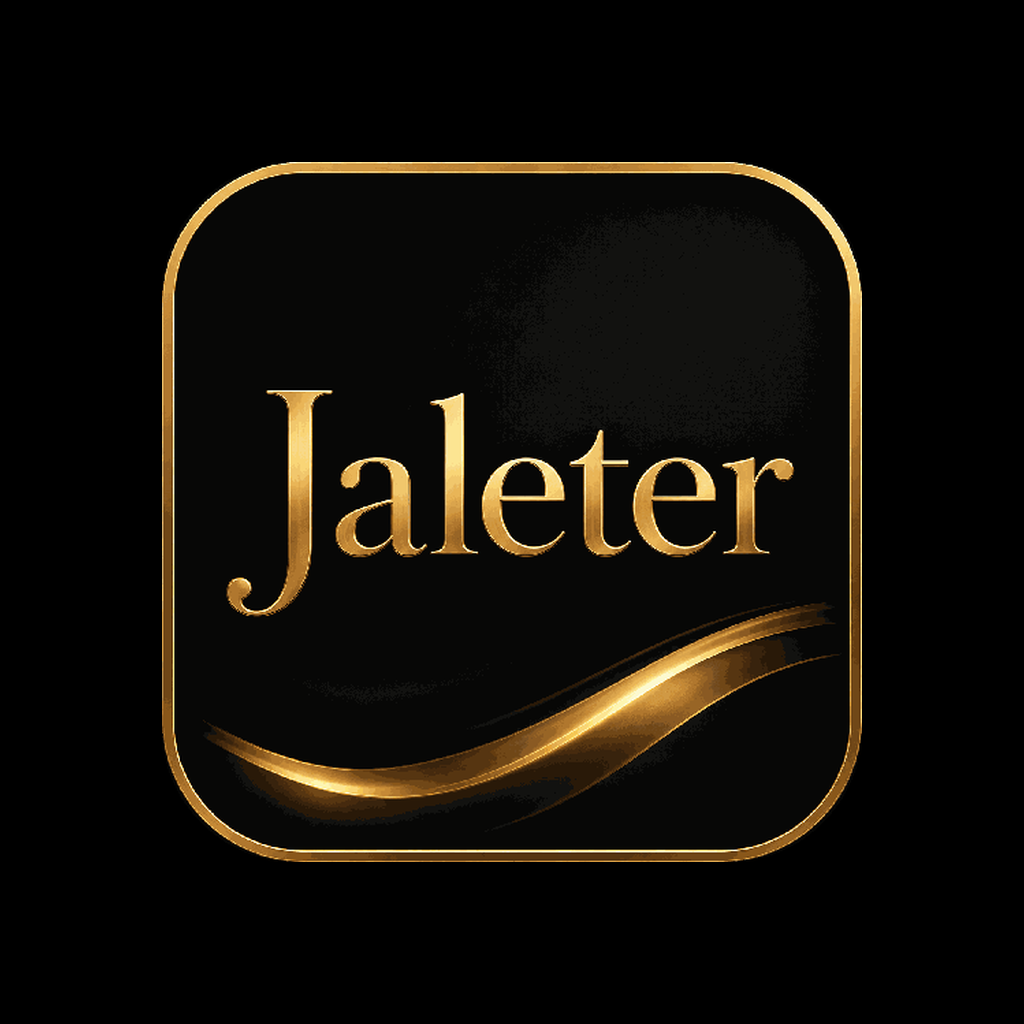
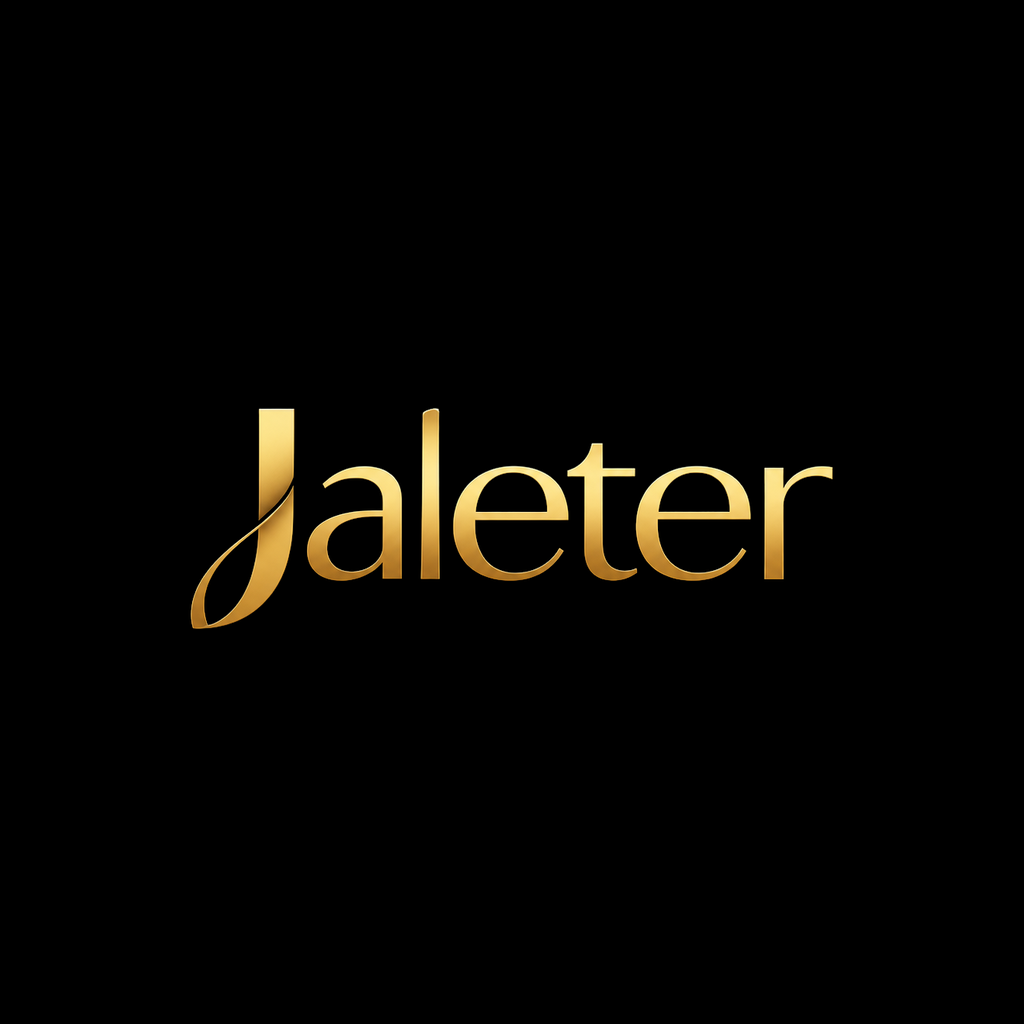
The official artwork is now integrated throughout the app, replacing the Emergent placeholders:
- **iOS app icon**: gold waves background with the gold **Jaleter** wordmark (without the tagline to ensure readability at icon size). Verified at home-screen scale for clarity.
- **Android adaptive icon**: wordmark on black within the safe zone.
- **Splash screen**: full premium artwork on black.
- **Web favicon**: same icon used.
- **In-app**: Paywall and jaleter.com `/membership` pages display the gold wordmark image instead of typed text.

Please note that since icons and splash screens are embedded in the native iOS build, they cannot be fully verified via web preview or Expo Go. When you are ready, we can proceed with Re-publishing and generating the iOS build. The TestFlight email will display the Jaleter icon, serving as confirmation. This build will also include the IAP identity fix (`PW-2026.10.02-e`) and updated branding, covering multiple items in one release.

Regarding the login issue, could you please specify which login method (Email / Apple / Google) you are using, along with the exact on-screen message? Both the review account and production backend appear correct, so the specific error message will help identify where the issue occurs.

I have addressed the initial updates based on the information available. Could you please test this setup and let me know if everything works as expected or if further investigation and comprehensive testing are needed?

Emergent-Commit-Key: 99ce15d4c94c490bd3e00032c6deaca198d9f3d5eb7dce7e60d4ff0393611862

diff --git a/frontend/app/membership.tsx b/frontend/app/membership.tsx
@@ -12,7 +12,7 @@
  * to the app root.
  */
 import React, { useCallback, useEffect, useState } from 'react';
-import { View, Text, Pressable, ScrollView, ActivityIndicator, Platform, StyleSheet } from 'react-native';
+import { View, Text, Pressable, ScrollView, ActivityIndicator, Platform, StyleSheet, Image } from 'react-native';
 import { Redirect } from 'expo-router';
 import Ionicons from '@react-native-vector-icons/ionicons';
 import { AuthProvider, useAuth, apiCall } from '@/src/AuthContext';
@@ -80,7 +80,7 @@ function MembershipFlow() {
   if (!member) {
     return (
       <ScrollView style={m.splash} contentContainerStyle={m.successWrap} testID="membership-subscribe-in-app">
-        <Text style={m.wordmark}>Jaleter</Text>
+        <Image source={require('../assets/images/wordmark.png')} style={{ width: 190, height: 68, alignSelf: 'center' }} resizeMode="contain" accessibilityLabel="Jaleter" />
         <Text style={m.h1}>Your account is ready</Text>
         <Text style={m.sub}>
           Signed in as <Text style={{ color: '#e5c37a', fontWeight: '700' }}>{auth.user.email}</Text>.
@@ -135,7 +135,7 @@ function MembershipFlow() {
   // ---- Active member: success + next steps ---------------------------------
   return (
     <ScrollView style={m.splash} contentContainerStyle={m.successWrap} testID="membership-success">
-      <Text style={m.wordmark}>Jaleter</Text>
+      <Image source={require('../assets/images/wordmark.png')} style={{ width: 190, height: 68, alignSelf: 'center' }} resizeMode="contain" accessibilityLabel="Jaleter" />
       <View style={m.checkCircle}><Ionicons name="checkmark" size={34} color="#171204" /></View>
       <Text style={m.h1}>You&apos;re all set</Text>
       <Text style={m.sub}>

diff --git a/frontend/src/screens/PaywallScreen.tsx b/frontend/src/screens/PaywallScreen.tsx
@@ -1,5 +1,5 @@
 import React, { useState, useEffect, useRef } from 'react';
-import { View, Text, Pressable, ScrollView, ActivityIndicator, AppState, Platform, StyleSheet } from 'react-native';
+import { View, Text, Pressable, ScrollView, ActivityIndicator, AppState, Platform, StyleSheet, Image } from 'react-native';
 import Ionicons from '@react-native-vector-icons/ionicons';
 import { openJaleter } from '@/src/jaleterLinks';
 import { openStoreListing, STORE_NAME } from '@/src/storeLinks';
@@ -245,7 +245,7 @@ export const Paywall = ({ email, checkMembership, onUnlocked, onSwitchAccount }:
       </Pressable>
 
       <View style={{ alignItems: 'center' }}>
-        <Text style={d.wordmark}>Jaleter</Text>
+        <Image source={require('../../assets/images/wordmark.png')} style={{ width: 190, height: 68 }} resizeMode="contain" accessibilityLabel="Jaleter" testID="paywall-wordmark" />
         <Text style={d.tagline}>SMART BUDGETING. WEALTHY LIVING.</Text>
       </View>
 

diff --git a/memory/PRD.md b/memory/PRD.md
@@ -242,4 +242,4 @@ Seeded sample rows (Cash, Investments, Real Estate, Vehicles) are now APPENDED w
 - Frontend: TransactionsScreen computes uncategorized linked rows → fetches suggestions; banner tx-suggest-banner + inline chips tx-suggest-chip-<ext>; src/components/SuggestionReviewSheet.tsx (checkbox bulk approve — high-confidence pre-checked, mixed-use unchecked; change picker; Always toggle; proposals with group pills + "Add & assign"). Approval writes the same overlay Tx a manual assignment does → Budget Actual/Left update automatically; then POST learn. New category via addSubcategory prop from index.tsx.
 - Readability: appShared subHeaderName/subHeaderCol 8→10 darker, subCol 11→13, bsSmall 8→10 lighter-on-dark, alertRow/alertPill spacing + text 9→11, cpSmall 8→10 darker, cpStrong 13→15; BudgetScreen taglines 9→10 darker, actual cell 11→13; SettingsScreen alert sub name 10→12; NetWorth AVAILABLE label lighter; Reports summaryLabel 8→10, legend 10→12 (two-line rows, pie 180→150), bar labels 10→12, axis 8→10. Verified at 390 and 360.
 - QA seed: backend/scripts/seed_categorization_demo.py (smartcat.qa@jaleter.example.com / Passw0rd!xyz; 10 Plaid-style rows).
-- Branding (Oct 2026): replaced ALL Emergent placeholder assets with the user's Jaleter black/gold logo (artifact Jaleter_1MB.png 512px): assets/images/icon.png (1024, inset on black for iOS mask), adaptive-icon.png (foreground 70% safe zone, bg #000000 in app.json), splash-image.png + app-image.png (logo on black, expo-splash-screen bg #000000, imageWidth 220), favicon.png (192). Requires redeploy + new native build to appear on devices.
+- Branding (Oct 2026): replaced ALL Emergent placeholder assets with the user's official premium artwork (artifact FEC3DCD3…png 1254px: gold 'Jaleter' wordmark + gold waves on black). icon.png = waves background with text erased + wordmark at 84% width; adaptive-icon = wordmark on black; splash = full artwork (imageWidth 320); favicon; NEW assets/images/wordmark.png (transparent gold wordmark) used on Paywall + /membership screens instead of the text wordmark.: assets/images/icon.png (1024, inset on black for iOS mask), adaptive-icon.png (foreground 70% safe zone, bg #000000 in app.json), splash-image.png + app-image.png (logo on black, expo-splash-screen bg #000000, imageWidth 220), favicon.png (192). Requires redeploy + new native build to appear on devices.
